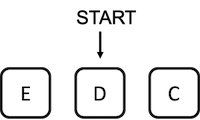
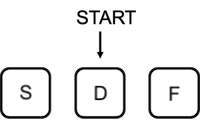
changes

Changed region(s): [[0.45, 0.7, 0.54, 0.85], [0.09, 0.7, 0.18, 0.85], [0.84, 0.7, 0.9, 0.85]]

diff --git a/RC.html b/RC.html
@@ -118,7 +118,7 @@
         stimulus: function () {
             var html = "";
             html += "<h1>Task 2: Face recognition task</h1>";
-            html += "<p class = 'justify'>For a start, let us inform you that <b>each group of faces</b> that you saw in the Video Game task ";
+            html += "<p class = 'justify'>For a start, let us inform you that <b>each group of faces</b> that you saw in the previous task ";
             html += "(i.e., those with a " + color1 + " background and those with a " + color2 + " background) ";
             html += "was in fact <b>very different from the other group.</b></br></br>";
             html += "Moreover, <b>within each group</b>, the faces also shared a series of physical characteristics, ";
@@ -155,7 +155,7 @@
             html += "<h1>Task 2: Face recognition task</h1>";
             html += "<p class = 'justify'>For each pair, your task is to select the one face that ";
             html += "you think is <b>the most similar to the group of faces that had a " + color1 + " background</b> ";
-            html += "in the previous task (i.e., the Video Game task).</p>";
+            html += "in the previous task.</p>";
             html += "<p class = 'justify'>Use your mouse to select a face at each trial.</p>";
             html += "<img width='200' style='padding: 0px' src='" + './img/faceOri200.jpg?raw=1' + "'>";
             html += "<img width='200' style='padding: 0px' src='" + './img/faceInv200.jpg?raw=1' + "'>";
@@ -249,7 +249,7 @@
             },
             stimulus: function () {
                 html = "";
-                html += "<p>Select the face that you think is the most similar to the group of faces that were presented with a <b>"+color1+" background in the Video Game task</b>:</p>";
+                html += "<p>Select the face that you think is the most similar to the group of faces that were presented with a <b>"+color1+" background in the previous task</b>:</p>";
                 jsPsych.timelineVariable('trialImgs', true).map(function (e) {
                     html += "<img class='" + cssRC + "' src='" + e + "'>";
                 });
@@ -266,7 +266,7 @@
    var appGrpOptions = ['approach ' + genColor("#2a57ea", "blue") + '-background and avoid ' + genColor("#b5a21b", "yellow") + '-background faces', 'approach ' + genColor("#b5a21b", "yellow") + '-background and avoid ' + genColor("#2a57ea", "blue") + '-background faces', 'I do not remember'];
     var reportedAppGrp = {
         type: 'survey-multi-choice',
-        questions: [{ prompt: "Please indicate the instructions you received in the Video Game task:", options: appGrpOptions, required: true }],
+        questions: [{ prompt: "Please indicate the approach vs. avoidance instructions you received previously:", options: appGrpOptions, required: true }],
         button_label: "continue",
         on_finish: function (data) {
             jsPsych.data.addProperties({
@@ -365,12 +365,12 @@
   debrief += "really about, and they behave a certain way because of it, our results get messed up. That is because they are not behaving "; 
   debrief += "like they naturally would in the real world. The whole point of this experiment is to find out how people would ";
   debrief += "naturally behave.<br><br>";
-  debrief += "Now we would like to explain what we were trying to learn about with this study. In the first task (TASK 1), we systematically "; 
-  debrief += "asked you to approach or avoid a group of faces. You had to aggressively approach a group or to approach to affiliate with a group or "; 
+  debrief += "Now we would like to explain what we were trying to learn about with this study. In the first task (TASK 1), some participants systematically "; 
+  debrief += "asked you to approach or avoid a group of faces (other participants only had to categorize faces with the S or the F keys). Some of you had to aggressively approach a group or to approach to affiliate with a group or "; 
   debrief += "to avoid a group. Our hypothesis is that this action could have an influence on the way you perceive individuals of that group. <br><br>";
   debrief += "More specifically, our goal was to test whether TASK 1 could change how you visually represent faces of the group that you approached or avoided. "; 
-  debrief += "More specifically, if you aggressed the group or avoided the group, you should have a more negative visual representation "; 
-  debrief += "of the faces of this group as compared to if you approached the group to affiliate. We measured your visual representation of the group in TASK 2. <br><br>";
+  debrief += "If you aggressed the group or avoided the group, you should have a more negative visual representation "; 
+  debrief += "of the faces of this group as compared to if you approached the group to affiliate. We measured your visual representation of the group in TASK 2. For the participants who only categorized the faces and received the instructions to approach or avoid groups in a future task (but did not really perform those actions) we expect that the previous effects will be diminished. <br><br>";
   debrief += "We would like to emphasize that there are no correct responses in this study: We were looking at people’s natural responses. ";
   debrief += "We hope you understand that we couldn't tell you all of this before because it would have ruined our study. ";
   debrief += "Again, your responses will be anonymous and will be analyzed as part of a group of responses.</br></br>";
@@ -430,11 +430,14 @@
       jsPsych.data.addProperties({
         id: id,
         prolificID: prolificID,
+        cond_AA: cond_AA,
+        control_cond: control_cond,
         target_action: target_action,
         color_target: color_target,
         ColorGroup: ColorGroup,
         totalTime: jsPsych.totalTime()
       });
+
 
         var dataRC = jsPsych.data.get().filterCustom(function (x) {
           return x.task == "RC1" || x.task == "RC2"
